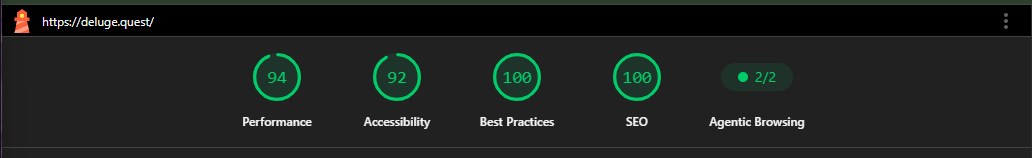
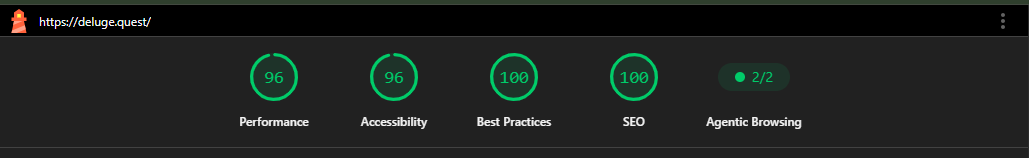
chore: update changelog with final improved lighthouse score

diff --git a/web/src/content/changelog/2026-09-20-milestone-of-quote-done-unquote.md b/web/src/content/changelog/2026-09-20-milestone-of-quote-done-unquote.md
@@ -131,6 +131,6 @@ Again, I *really* want to push this to all 100, but as the saying goes: [practic
 
 In this case, I'm losing some accessibility points because some of the DelugeUI's pads are too small on mobile. This seems acceptable to me: these pads are essentially just a toy/demo, not crucial to the site's tools. I think having a small DelugeUI on mobile beats a "please rotate phone to landscape" or a different mobile view altogether.
 
-On the performance end, I'm torn. On one hand, I want 100. On the other, the solution here seems to be maintaining two different versions of the DelugeUI: one in HTML/CSS for faster pageload, then the other in my Svelte island to hydrate the functionality. I... am allergic to maintaining two copies of the same thing. I'm declaring 94 a perfect score for a site of this nature!
+On the performance end, I'm torn. On one hand, I want 100. On the other, the solution here seems to be maintaining two different versions of the DelugeUI: one in HTML/CSS for faster pageload, then the other in my Svelte island to hydrate the functionality. I... am allergic to maintaining two copies of the same thing. I'm declaring 96 a perfect score for a site of this nature!
 
 The perfectionist in me is truly running out of things to test, shore up, or otherwise improve. The main thing left to do for this site is... share it? As someone who tends toward "lurker", this is easier said than done.
